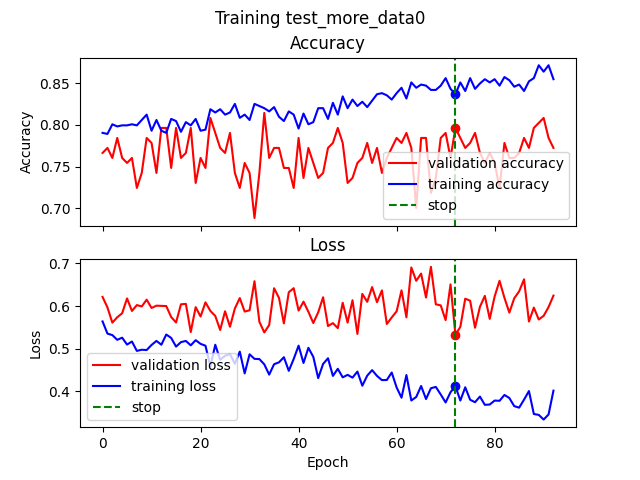
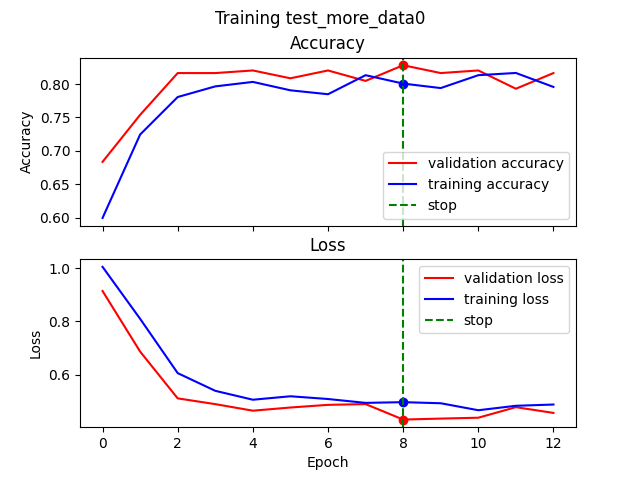
new training

diff --git a/pytorch_pilotStudy/trainingModel/main.py b/pytorch_pilotStudy/trainingModel/main.py
@@ -40,7 +40,7 @@ def training(model, train_dl, validation_dl, num_epochs, early_stopping=None, re
     val_accs = []
 
     # Loss Function, Optimizer and Scheduler
-    learning_rate = 0.001
+    learning_rate = 0.01
     criterion = torch.nn.CrossEntropyLoss()
     params = model.parameters()
     # optimizers = [
@@ -50,7 +50,8 @@ def training(model, train_dl, validation_dl, num_epochs, early_stopping=None, re
     #     torch.optim.Adagrad(params, lr=learning_rate),
     #     torch.optim.Adam(params,lr=learning_rate)
     # ]
-    optimizer = torch.optim.RMSprop(params, lr=learning_rate)
+    # optimizer = torch.optim.RMSprop(params, lr=learning_rate)
+    optimizer = torch.optim.Adam(params, lr=learning_rate)
     scheduler = torch.optim.lr_scheduler.OneCycleLR(optimizer, max_lr=learning_rate,
                                                     steps_per_epoch=int(len(train_dl)),
                                                     epochs=num_epochs,
@@ -226,7 +227,8 @@ def inference (model, val_dl, early_stopping=None, test=None, classes=None):
     # confusion matrix
     if test is not None:
         cf_matrix = confusion_matrix(y_true, y_pred)
-        df_cm = pd.DataFrame(cf_matrix/np.sum(cf_matrix) *100, index = [i for i in classes],
+        # cf_matrix/np.sum(cf_matrix) *100
+        df_cm = pd.DataFrame(cf_matrix, index = [i for i in classes],
                      columns = [i for i in classes])
         plt.figure(figsize = (12,7))
         sn.heatmap(df_cm, annot=True)
@@ -241,6 +243,7 @@ def inference (model, val_dl, early_stopping=None, test=None, classes=None):
                 print("STOP!")
                 return stats, True
     return stats, False
+
 
 def print_num_of_data(df):
     print('---------')
@@ -280,7 +283,7 @@ if __name__ == '__main__':
         # Check that it is on Cuda
         next(myModel.parameters()).device
 
-        early_stopping = EarlyStopping(patience=20, verbose=True)
+        early_stopping = EarlyStopping(patience=4, verbose=True)
         num_epochs=110
         training(myModel, train_data, val_data, num_epochs, early_stopping, training_id=training_id, model_path=model_location_path)
         myModel.load_state_dict(torch.load(early_stopping.path))
